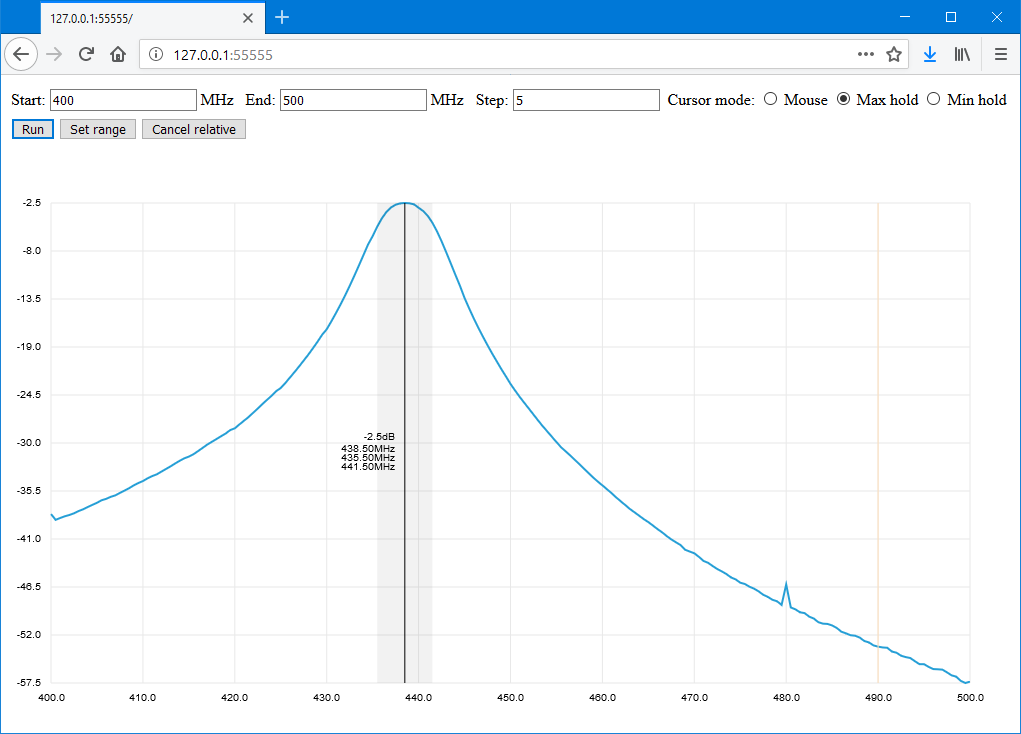
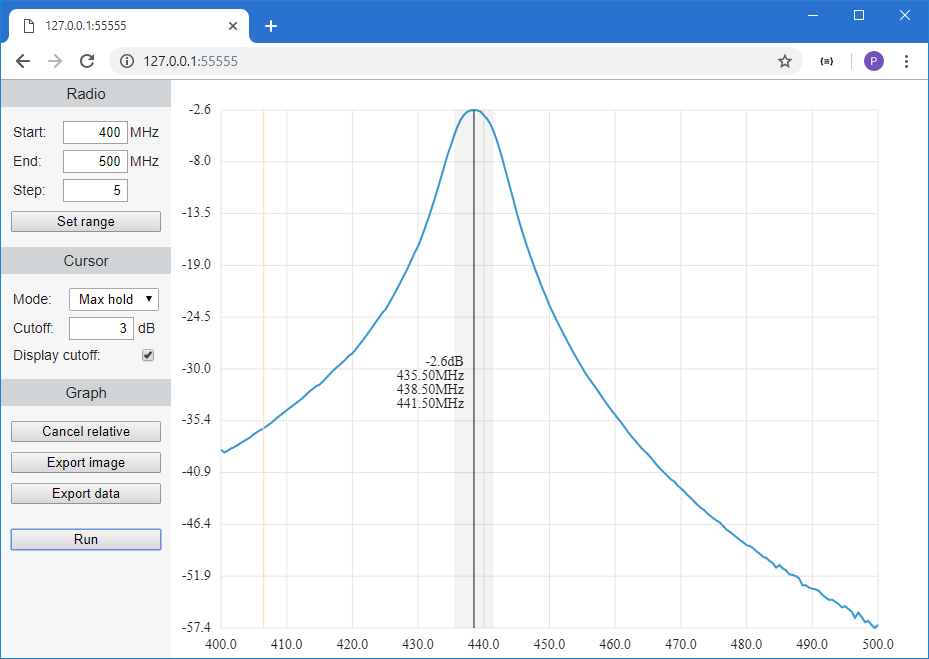
Control panel UI upgrade, Added marker cutoff config UI elements, Added CSV/image export features

diff --git a/static/canvasChart.js b/static/canvasChart.js
@@ -6,7 +6,9 @@
     var cursor = {//0 mouse, 1 max hold, 2 min hold
         mode: 0,
         x: 0,
-        y: 0
+        y: 0,
+        cutoffRange: 3,
+        showCutoff: false
     };
 
     var xMin, xRange, xMax;
@@ -22,7 +24,6 @@
 
     var canvas = document.getElementById(dataObj.canvasId);
     var ctx = canvas.getContext("2d");
-    ctx.font = '10pt Calibri';
 
     canvas.addEventListener("mousemove", setCursorPos);
 
@@ -60,7 +61,11 @@
         xRatio = xRange / (dataLength - 1);
         yRatio = yRange*-1 / vyRange;
 
-        ctx.clearRect(0, 0, canvas.width, canvas.height);
+        //ctx.clearRect(0, 0, canvas.width, canvas.height);
+        ctx.fillStyle = "white";
+        ctx.fillRect(0, 0, canvas.width, canvas.height);
+        ctx.fillStyle = "#222";
+
         renderLinesAndLabels();
         renderData();
         renderCursors();
@@ -70,8 +75,9 @@
         var gradCnt = 10;
 
         ctx.beginPath();
+        ctx.font = "14px 'HelveticaNeue'";
         ctx.lineWidth = 1;
-        ctx.strokeStyle = '#E8E8E8'
+        ctx.strokeStyle = '#E8E8E8';
 
         //v lines + text
         var xPos = xMin;
@@ -145,11 +151,12 @@
 
     function renderCursors() {
         ctx.beginPath();
+        ctx.font = "14px 'HelveticaNeue'";
         ctx.strokeStyle = '#FFDFBA';
         ctx.lineWidth = 1;
 
         var ptX = xMin + sweepPos * xRatio;
-        ctx.moveTo(ptX, xMin);
+        ctx.moveTo(ptX, yMin);
         ctx.lineTo(ptX, yMax);
         ctx.stroke();
         ctx.closePath();
@@ -183,7 +190,7 @@
         var pwr = dataPoints[xIndex];
 
         ctx.beginPath();
-        ctx.strokeStyle = '#000';
+        ctx.strokeStyle = '#222';
         ctx.textBaseline = 'center';
 
         var textXPos;
@@ -196,8 +203,9 @@
             textXPos = ptX - 10;
         }
 
-        if ((cursor.mode!=0) && (pwr!=null)) {
-            var bwin = getBandwidthWindow(xIndex, pwr, cursor.mode==1 ? -3 : 3);
+        var freqTextY;
+        if ((cursor.mode!=0) && (cursor.showCutoff) && (pwr!=null)) {
+            var bwin = getBandwidthWindow(xIndex, pwr, cursor.mode==1 ? cursor.cutoffRange*-1 : cursor.cutoffRange);
             var xStart = xMin + bwin.startIndex * xRatio;
             var xWidth = (xMin + bwin.endIndex * xRatio) - xStart;
             if (xWidth>0) {
@@ -207,17 +215,23 @@
 
                 var freqMin = vxMin + bwin.startIndex * vxStep;
                 var freqMax = vxMin + bwin.endIndex * vxStep;
-                ctx.fillText((freqMin/1000000).toFixed(2)+"MHz", textXPos, ptY + 15);
-                ctx.fillText((freqMax/1000000).toFixed(2)+"MHz", textXPos, ptY + 24);
+                ctx.fillText((freqMin/1000000).toFixed(2)+"MHz", textXPos, ptY + 7);
+                ctx.fillText((freqMax/1000000).toFixed(2)+"MHz", textXPos, ptY + 35);
+
+                freqTextY = ptY + 21;
             }
+            else
+                freqTextY = ptY + 7;
         }
+        else
+            freqTextY = ptY + 7;
 
         ctx.moveTo(ptX, yMin);
         ctx.lineTo(ptX, yMax);
 
         if (pwr!=null) {
-            ctx.fillText(pwr.toFixed(1)+"dB", textXPos, ptY - 6);
-            ctx.fillText((freq/1000000).toFixed(2)+"MHz", textXPos, ptY + 6);
+            ctx.fillText(pwr.toFixed(1)+"dB", textXPos, ptY - 7);
+            ctx.fillText((freq/1000000).toFixed(2)+"MHz", textXPos, freqTextY);
         }
         else
             ctx.fillText((freq/1000000).toFixed(2)+"MHz", textXPos, ptY);
@@ -289,12 +303,11 @@
         render();
     }
 
-    function getData() {
-        return dataPoints.slice(0);
-    }
-
-    function setCursorMode(mode) {
+    function setCursorMode(mode, showCutoff, cutoffRange) {
         cursor.mode = mode;
+        cursor.showCutoff = showCutoff;
+        cursor.cutoffRange = cutoffRange;
+
         render();
     }
 
@@ -308,11 +321,24 @@
         }
     }
 
+
+    function getData() {
+        return dataPoints.slice(0);
+    }
+
+    function getXRange() {
+        return {
+            min: vxMin,
+            step: vxStep
+        };
+    }
+
     return {
         init: init,
         setItem: setItem,
-        getData: getData,
         setCursorMode: setCursorMode,
+        getData: getData,
+        getXRange: getXRange,
         render: render
     };
 };

diff --git a/static/index.html b/static/index.html
@@ -7,27 +7,42 @@
 	</head>
 	<body onresize="onResize()">
 		<div id="panel">
-			<div>
-				<span>Start: <input type="text" id="startFreq" value="400" /> MHz &nbsp;</span>
-				<span>End: <input type="text" id="endFreq" value="500" /> MHz &nbsp;</span>
-				<span>Step: <input type="text" id="numSteps" value="5" />&nbsp;</span>
-				<span>Cursor mode:</span>
-				<span>
-					<input type="radio" name="cursorHold" value="0" checked="checked" onclick="setCursorMode(this)"/> Mouse
-					<input type="radio" name="cursorHold" value="1" onclick="setCursorMode(this)"/> Max hold
-					<input type="radio" name="cursorHold" value="2" onclick="setCursorMode(this)"/> Min hold
-				</span>
-			</div>
-			<div>
-				<input type="button" id="runBtn" onclick="btnClick(this)" value="Run"/>
-				<input type="button" id="setRangeBtn" onclick="btnClick(this)" value="Set range"/>
-				<input type="button" id="setRelBtn" onclick="btnClick(this)" value="Set relative"/>
-			</div>
+			<p>Radio</p>
+			<table id="radioSettings">
+				<tr><td>Start:</td><td><input type="text" id="startFreq" value="400"></td><td>MHz</td></tr>
+				<tr><td>End:</td><td><input type="text" id="endFreq" value="500"></td><td>MHz</td></tr>
+				<tr><td>Step:</td><td><input type="text" id="numSteps" value="5"></td><td></td></tr>
+			</table>
+			<input type="button" id="setRangeBtn" onclick="btnClick(this)" value="Set range">
+			<p>Cursor</p>
+			<table id="cursorSettings">
+				<tr>
+					<td>Mode:</td>
+					<td colspan="2">
+						<select id="cursoreMode" onchange="setCursorMode()">
+							<option value="0" selected>Mouse</option>
+							<option value="2">Min hold</option>
+							<option value="1">Max hold</option>
+						</select>
+					</td>
+				</tr>
+				<tr><td>Cutoff:</td><td><input type="text" id="cutoffRange" value="3" onchange="setCursorMode()"></td><td>dB</td></tr>
+				<tr><td colspan="2">Display cutoff:</td><td><input type="checkbox" id="showCutoff" value="1" onchange="setCursorMode()"></td></tr>
+				</tr>
+			</table>
+
+
+			<p>Graph</p>
+			<input type="button" id="setRelBtn" onclick="btnClick(this)" value="Set relative"/>
+			<input type="button" id="exportImageBtn" onclick="btnClick(this)" value="Export image"/>
+			<input type="button" id="exportCSVBtn" onclick="btnClick(this)" value="Export data"/>
+
+			<input type="button" id="runBtn" onclick="btnClick(this)" value="Run"/>
 			<div id="welcome">
-				<h3>Welcome to limeSNA</h3>
-				Press the start button to begin.
+				<h4>Welcome to limeSNA</h4>
+				Press the run button to begin.
 			</div>
 		</div>
-		<canvas id="canvas" />
+		<canvas id="canvas"></canvas>
 	</body>
 </html>

diff --git a/static/functions.js b/static/functions.js
@@ -11,7 +11,7 @@ window.onload = function() {
 
 	chart = new CanvasChart({
 		canvasId: 'canvas',
-		margin: { top: 50, left: 50, right: 50, bottom: 50 }
+		margin: { top: 30, left: 50, right: 50, bottom: 30 }
 	});
 
 	socket = io.connect('http://' + document.domain + ':' + location.port);
@@ -63,6 +63,23 @@ function hideWelcome() {
 }
 
 function btnClick(el) {
+	if (el.id=="exportImageBtn") {
+		window.open(canvas.toDataURL('image/png'));
+		return;
+	}
+
+	if (el.id=="exportCSVBtn") {
+		var data = chart.getData();
+		var xRange = chart.getXRange();
+		var csvContent = "data:text/csv;charset=utf-8,";
+
+		for (var i=0;i<data.length;i++)
+			csvContent += ((xRange.min + i*xRange.step)/1000000).toFixed(2)+","+data[i]+"\n";
+
+		window.open(encodeURI(csvContent));
+		return;
+	}
+
 	if (el.id=="setRelBtn") {
 		if (relData==null) {
 			relData = chart.getData();
@@ -107,13 +124,22 @@ function btnClick(el) {
 }
 
 function onResize() {
-	canvas.width = document.body.offsetWidth;
-	canvas.height = document.body.offsetHeight - panel.offsetHeight;
+	canvas.width = document.body.offsetWidth  - panel.offsetWidth;
+	canvas.height = document.body.offsetHeight;
 	chart.render();
 }
 
 function setCursorMode(e) {
-	chart.setCursorMode(parseInt(e.value));
+	var cursorMode = parseInt(document.getElementById("cursoreMode").value);
+	var showCutoff = document.getElementById("showCutoff").checked;
+	var cutoffRange = Math.round(document.getElementById("cutoffRange").value);
+
+	if (cutoffRange<1) {
+		alert("The cutoff value must be greater then 0.");
+		return;
+	}
+
+	chart.setCursorMode(cursorMode, showCutoff, cutoffRange);
 }
 
 function validateInputRange(startFreq, endFreq, numSteps) {

diff --git a/static/style.css b/static/style.css
@@ -4,13 +4,78 @@ html, body {
 	padding: 0;
 	margin: 0;
 	overflow: hidden;
+	color: #222;
+	font-family: "Helvetica Neue", Helvetica, Ariel, sans-serif;
+	font-size: 14px;
+}
+
+table {
+	font-size: 14px;
 }
 
 #panel {
-	padding: 10px;
-	line-height: 1.8;
+	padding: 0 10px;
+	width: 150px;
+	height: 100%; 
+	background: #F7F7F7;
+	float: left;
 }
 
-#panel span {
-	display: inline-block;
+#panel p {
+    font-size: 15px;
+	text-align: center;
+	background: #D5D9DC;
+	margin: 10px -10px;
+	padding: 5px;
 }
+
+#panel p:nth-child(1) {
+	margin-top: 0px;
+}
+
+#panel td {
+	padding: 2px 0;
+}
+
+#panel input[type="text"] {
+	text-align: right;
+	padding: 2px 5px;
+}
+
+#panel select {
+	padding: 2px 5px;
+}
+
+#radioSettings td:nth-child(1), #cursorSettings td:nth-child(1) {
+	width: 100%;
+}
+
+#radioSettings input[type="text"] {
+	width: 65px;
+}
+
+#setRangeBtn, #setRelBtn, #exportImageBtn, #exportCSVBtn {
+	width: 100%;
+	margin: 5px 0;
+}
+
+#cursorSettings select {
+	width: 90px;	
+}
+
+#cursorSettings input[type="text"] {
+	width: 65px;
+}
+
+ #runBtn {
+ 	width: 100%;
+	margin-top: 20px;
+ }
+
+ #canvas {
+ 	float: right;
+ }
+
+ #welcome h4 {
+ 	margin-bottom: 10px;
+ }
